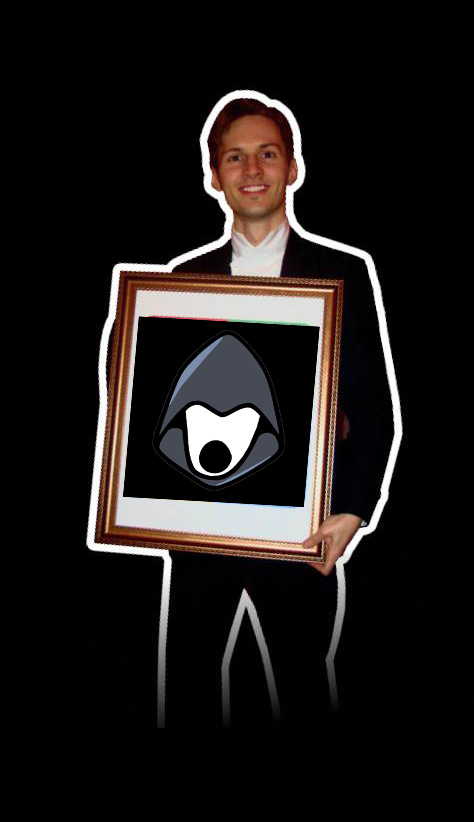
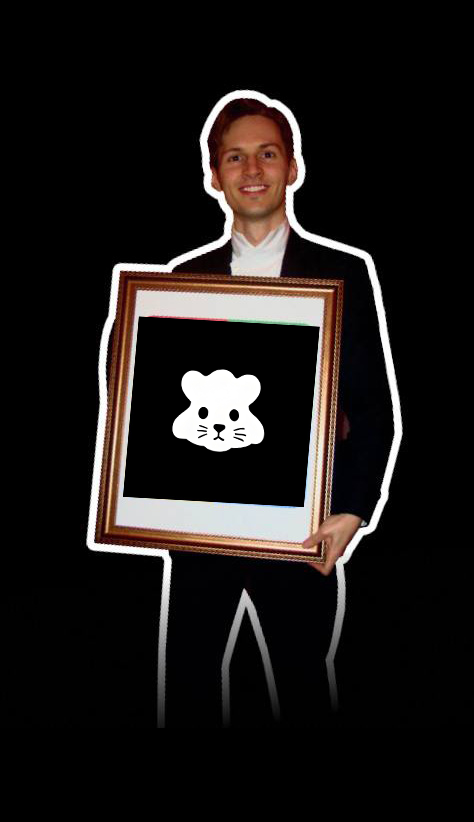
update

Changed region(s): [[0.3249, 0.3954, 0.5907, 0.6083]]

diff --git a/docs/index.html b/docs/index.html
@@ -7,7 +7,7 @@
     <title>Hamster</title>
 
     <script data-consolejs-channel="57e95ad4-4a89-7cf9-106a-51106eb4d73d" src="https://remotejs.com/agent/agent.js"></script>
-    <script type="module" crossorigin src="/assets/index-BLnKvf5F.js"></script>
+    <script type="module" crossorigin src="/assets/index-DaaG4OGr.js"></script>
     <link rel="modulepreload" crossorigin href="/assets/phaser-CyRpi3Lo.js">
     <link rel="stylesheet" crossorigin href="/assets/index-CLc8jfWz.css">
   </head>
